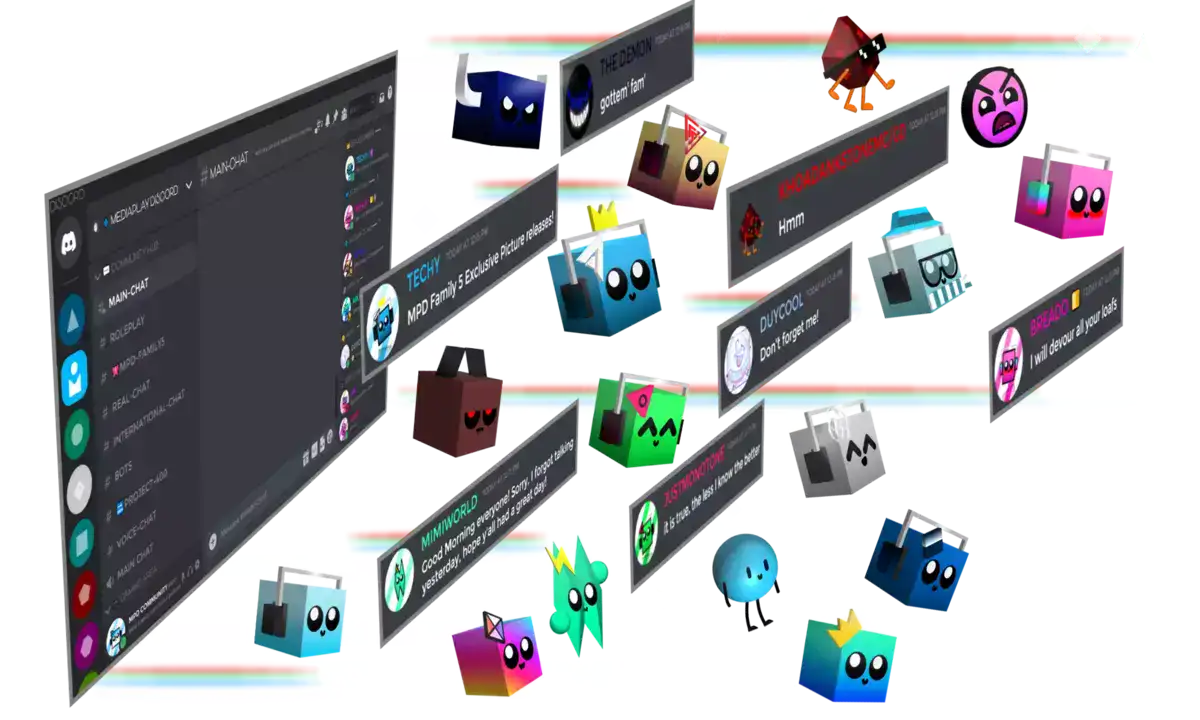
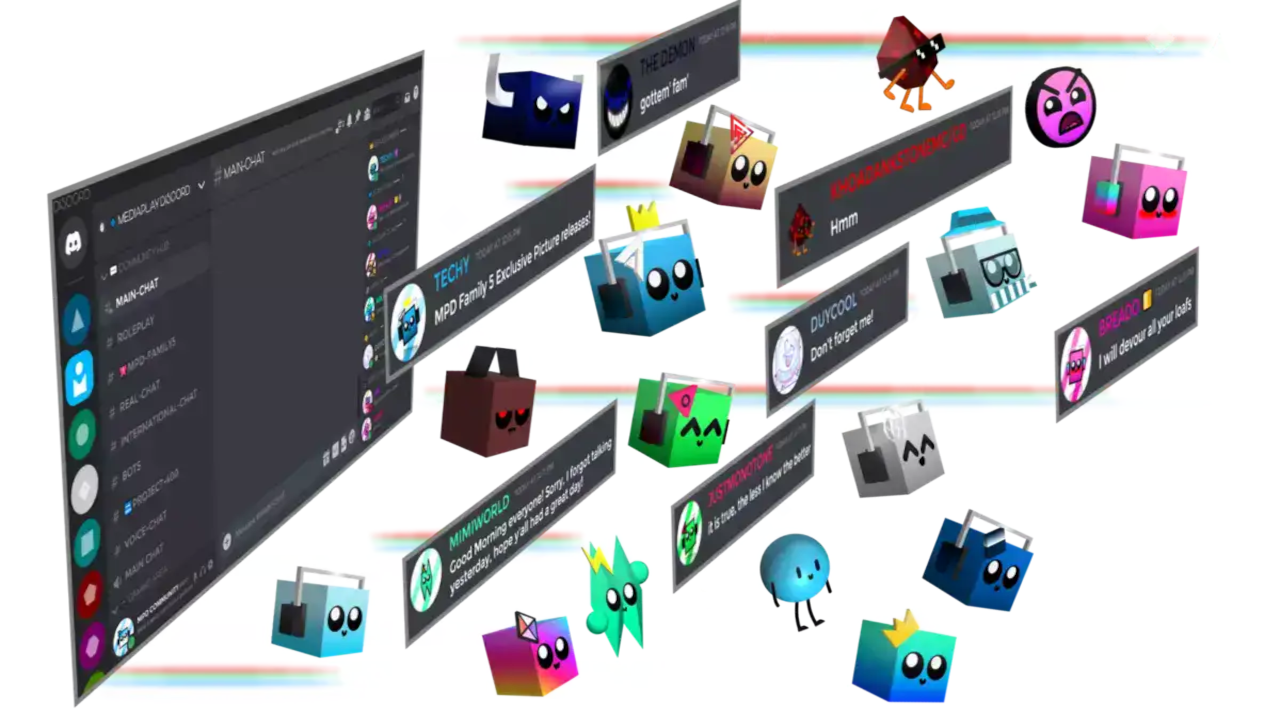
Updated slideshow buttons

Changed region(s): [[0.37, 0.7333, 0.4008, 0.7639]]

diff --git a/layouts/index.html b/layouts/index.html
@@ -7,6 +7,7 @@
   var slideIndex = 1;
   var myTimer;
   var slideshowContainer;
+  var slides = document.getElementsByClassName("mySlides");
 
   window.addEventListener("load", function () {
     showSlides(slideIndex);
@@ -50,7 +51,6 @@
 
   function showSlides(n) {
     var i;
-    var slides = document.getElementsByClassName("mySlides");
     var dots = document.getElementsByClassName("dot");
     if (n > slides.length) {
       slideIndex = 1;
@@ -82,7 +82,7 @@
 
 <div class="slideshow-container">
   <div class="slideshow-inner">
-    <div class="mySlides fade">
+    <div class="mySlides">
       <img
         src="/assets/MPD-Family-1-Picture-Compressed.webp"
         style="
@@ -95,7 +95,7 @@
       <div class="text">MPD Family 1</div>
     </div>
 
-    <div class="mySlides fade">
+    <div class="mySlides">
       <img
         src="/assets/MPD-Family-2-Picture-Compressed.webp"
         style="
@@ -108,7 +108,7 @@
       <div class="text">MPD Family 2</div>
     </div>
 
-    <div class="mySlides fade">
+    <div class="mySlides">
       <img
         src="/assets/MPD-Family-3-Picture-Compressed.webp"
         style="
@@ -121,7 +121,7 @@
       <div class="text">MPD Family 3</div>
     </div>
 
-    <div class="mySlides fade">
+    <div class="mySlides">
       <img
         src="/assets/MPD-Family-4-Picture-Compressed.webp"
         style="
@@ -134,7 +134,7 @@
       <div class="text">MPD Family 4</div>
     </div>
 
-    <div class="mySlides fade">
+    <div class="mySlides">
       <img
         src="/assets/MPD-Family-5-Main-Picture-Compressed.webp"
         style="
@@ -147,7 +147,7 @@
       <div class="text" style="color: #000">MPD Family 5 - Main</div>
     </div>
 
-    <div class="mySlides fade">
+    <div class="mySlides">
       <img
         src="/assets/MPD-NVO-18-Family-Picture-Compressed.webp"
         style="
@@ -160,20 +160,21 @@
       <div class="text">MPD NVO-18 Family — TechNewVideo's 18th Birthday!</div>
     </div>
 
-    <div class="mySlides fade">
+    <div class="mySlides">
       <img
         src="/assets/MPD-Family-5-Exclusive-Picture-Compressed.webp"
         style="
           width: 100%;
           border-radius: 2rem;
           box-shadow: 0 0 15px rgba(0, 0, 0, 0.315);
+          background-color: rgb(20, 20, 20);
         "
         alt="MPD Family 5 - Exclusive picture. Contains a Discord app window, with messages coming out from it. The Demon (OfficialAz3)'s message: 'gottem' fam'', Techy's message: 'MPD Family 5 Exclusive Picture releases!', MimiWorld's message: 'Good Morning everyone! Sorry, I forgot talking yesterday, hope y'all had a great day!', KhoaDankstoneMC/GD's message: 'Hmm', DuyCool's message: 'Don't forget me!', JustMonotone's message: 'it is true, the less I know the better', Breado (BreadoDaLoaf)'s message: 'I will devour all your loafs'."
       />
       <div class="text">MPD Family 5 - Exclusive</div>
     </div>
 
-    <div class="mySlides fade">
+    <div class="mySlides">
       <img
         src="/assets/MPD-Family-6-Picture.png"
         style="
@@ -186,7 +187,7 @@
       <div class="text" style="color: #000">MPD Family 6</div>
     </div>
 
-    <div class="mySlides fade">
+    <div class="mySlides">
       <img
         src="/assets/MediaPlay-Family-8-Picture.png"
         style="
@@ -203,16 +204,16 @@
   </div>
 
   <img
-    src="/assets/MPD-Button-Left.png"
-    width="15%"
-    height="15%"
+    src="/assets/Website_Button_2.webp"
+    width="20%"
+    height="20%"
     class="prev"
     onclick="plusSlides(-1)"
   />
   <img
-    src="/assets/MPD-Button-Right.png"
-    width="15%"
-    height="15%"
+    src="/assets/Website_Button_1.webp"
+    width="20%"
+    height="20%"
     class="next"
     onclick="plusSlides(1)"
   />

diff --git a/static/css/slideshow.css b/static/css/slideshow.css
@@ -50,10 +50,14 @@
   }
 }
 
-.prev:hover,
+.prev:hover {
+  content: url('/assets/Website_Button_2_OnClick.webp');
+  transform: translate(-5px);
+}
+
 .next:hover {
-  color: #707070;
-  background-color: rgba(0, 0, 0, 0.8);
+  content: url('/assets/Website_Button_1_OnClick.webp');
+  transform: translate(5px);
 }
 
 .text {
@@ -81,4 +85,13 @@
 .active,
 .dot:hover {
   background-color: #00adec;
+}
+
+.fade {
+  opacity: 1;
+  transition: opacity 1s ease-in-out;
+}
+
+.show {
+  opacity: 0;
 }
